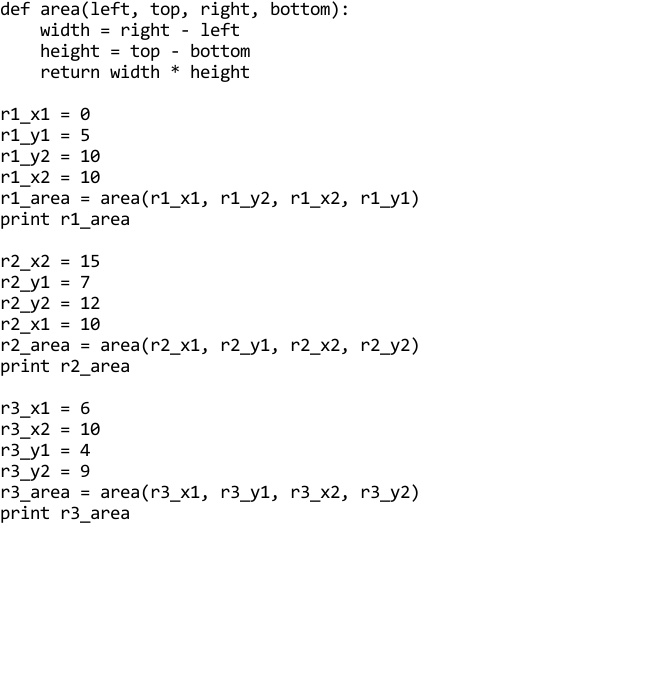
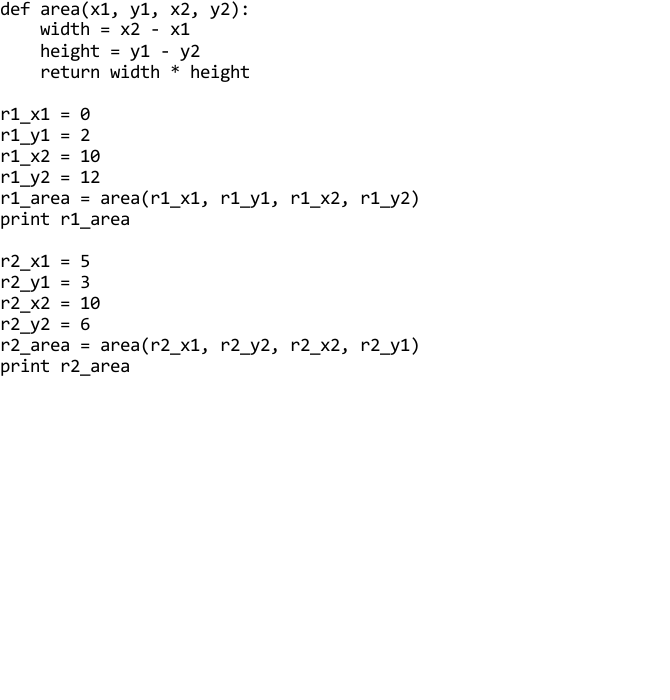
Simplified some programs

diff --git a/eyecode2/app/templates/core/experiment.html b/eyecode2/app/templates/core/experiment.html
@@ -2,12 +2,15 @@
 {% block body %}
 
 <h1>Experiment</h1>
+
 <p>Welcome to the eyeCode experiment! To finish, you must predict the printed
-output of the <span class="text-info">{{ exp.trials|length }} programs</span> below.</p>
+output of the <span class="text-info">{{ exp.trials|length }} Python 2.7
+    programs</span> below.</p>
 
 <p>You may complete them in any order within the time remaining. Please <span
-    class="text-danger">do not use a Python interpreter</span> for your
-answers (we want <strong>your</strong> predictions).</p>
+    class="text-danger">do not use a Python interpreter</span> for your answers
+(we want <strong>your</strong> output predictions <i class="glyphicon
+    glyphicon-thumbs-up"></i>).</p>
 
 <div class="well">
     <h4>

diff --git a/programs/rectangle_short.py b/programs/rectangle_short.py
@@ -1,25 +1,18 @@
-def area(left, top, right, bottom):
-    width = right - left
-    height = top - bottom
+def area(x1, y1, x2, y2):
+    width = x2 - x1
+    height = y1 - y2
     return width * height
 
 r1_x1 = 0
-r1_y1 = 5
-r1_y2 = 10
+r1_y1 = 2
 r1_x2 = 10
-r1_area = area(r1_x1, r1_y2, r1_x2, r1_y1)
+r1_y2 = 12
+r1_area = area(r1_x1, r1_y1, r1_x2, r1_y2)
 print r1_area
 
-r2_x2 = 15
-r2_y1 = 7
-r2_y2 = 12
-r2_x1 = 10
-r2_area = area(r2_x1, r2_y1, r2_x2, r2_y2)
+r2_x1 = 5
+r2_y1 = 3
+r2_x2 = 10
+r2_y2 = 6
+r2_area = area(r2_x1, r2_y2, r2_x2, r2_y1)
 print r2_area
-
-r3_x1 = 6
-r3_x2 = 10
-r3_y1 = 4
-r3_y2 = 9
-r3_area = area(r3_x1, r3_y1, r3_x2, r3_y2)
-print r3_area

diff --git a/programs/rectangle_long.py b/programs/rectangle_long.py
@@ -4,22 +4,15 @@ def area(left, top, right, bottom):
     return width * height
 
 r1_left = 0
-r1_top = 5
-r1_bottom = 10
+r1_top = 2
 r1_right = 10
-r1_area = area(r1_left, r1_bottom, r1_right, r1_top)
+r1_bottom = 12
+r1_area = area(r1_left, r1_top, r1_right, r1_bottom)
 print r1_area
 
-r2_right = 15
-r2_top = 7
-r2_bottom = 12
-r2_left = 10
-r2_area = area(r2_left, r2_top, r2_right, r2_bottom)
+r2_left = 5
+r2_top = 3
+r2_right = 10
+r2_bottom = 6
+r2_area = area(r2_left, r2_bottom, r2_right, r2_top)
 print r2_area
-
-r3_left = 6
-r3_right = 10
-r3_top = 4
-r3_bottom = 9
-r3_area = area(r3_left, r3_top, r3_right, r3_bottom)
-print r3_area

diff --git a/programs/whitespace_normal.py b/programs/whitespace_normal.py
@@ -12,7 +12,3 @@ print x_other, y_other
 x_end = x_base + x_other + 2
 y_end = x_end * slope + intercept
 print x_end, y_end
-
-y_last = slope * x_end - intercept
-x_last = x_base + x_end + 5
-print x_last, y_last

diff --git a/programs/whitespace_nospace.py b/programs/whitespace_nospace.py
@@ -9,6 +9,3 @@ print x_other,y_other
 x_end=x_base+x_other+2
 y_end=x_end*slope+intercept
 print x_end,y_end
-y_last=slope*x_end-intercept
-x_last=x_base+x_end+5
-print x_last,y_last
